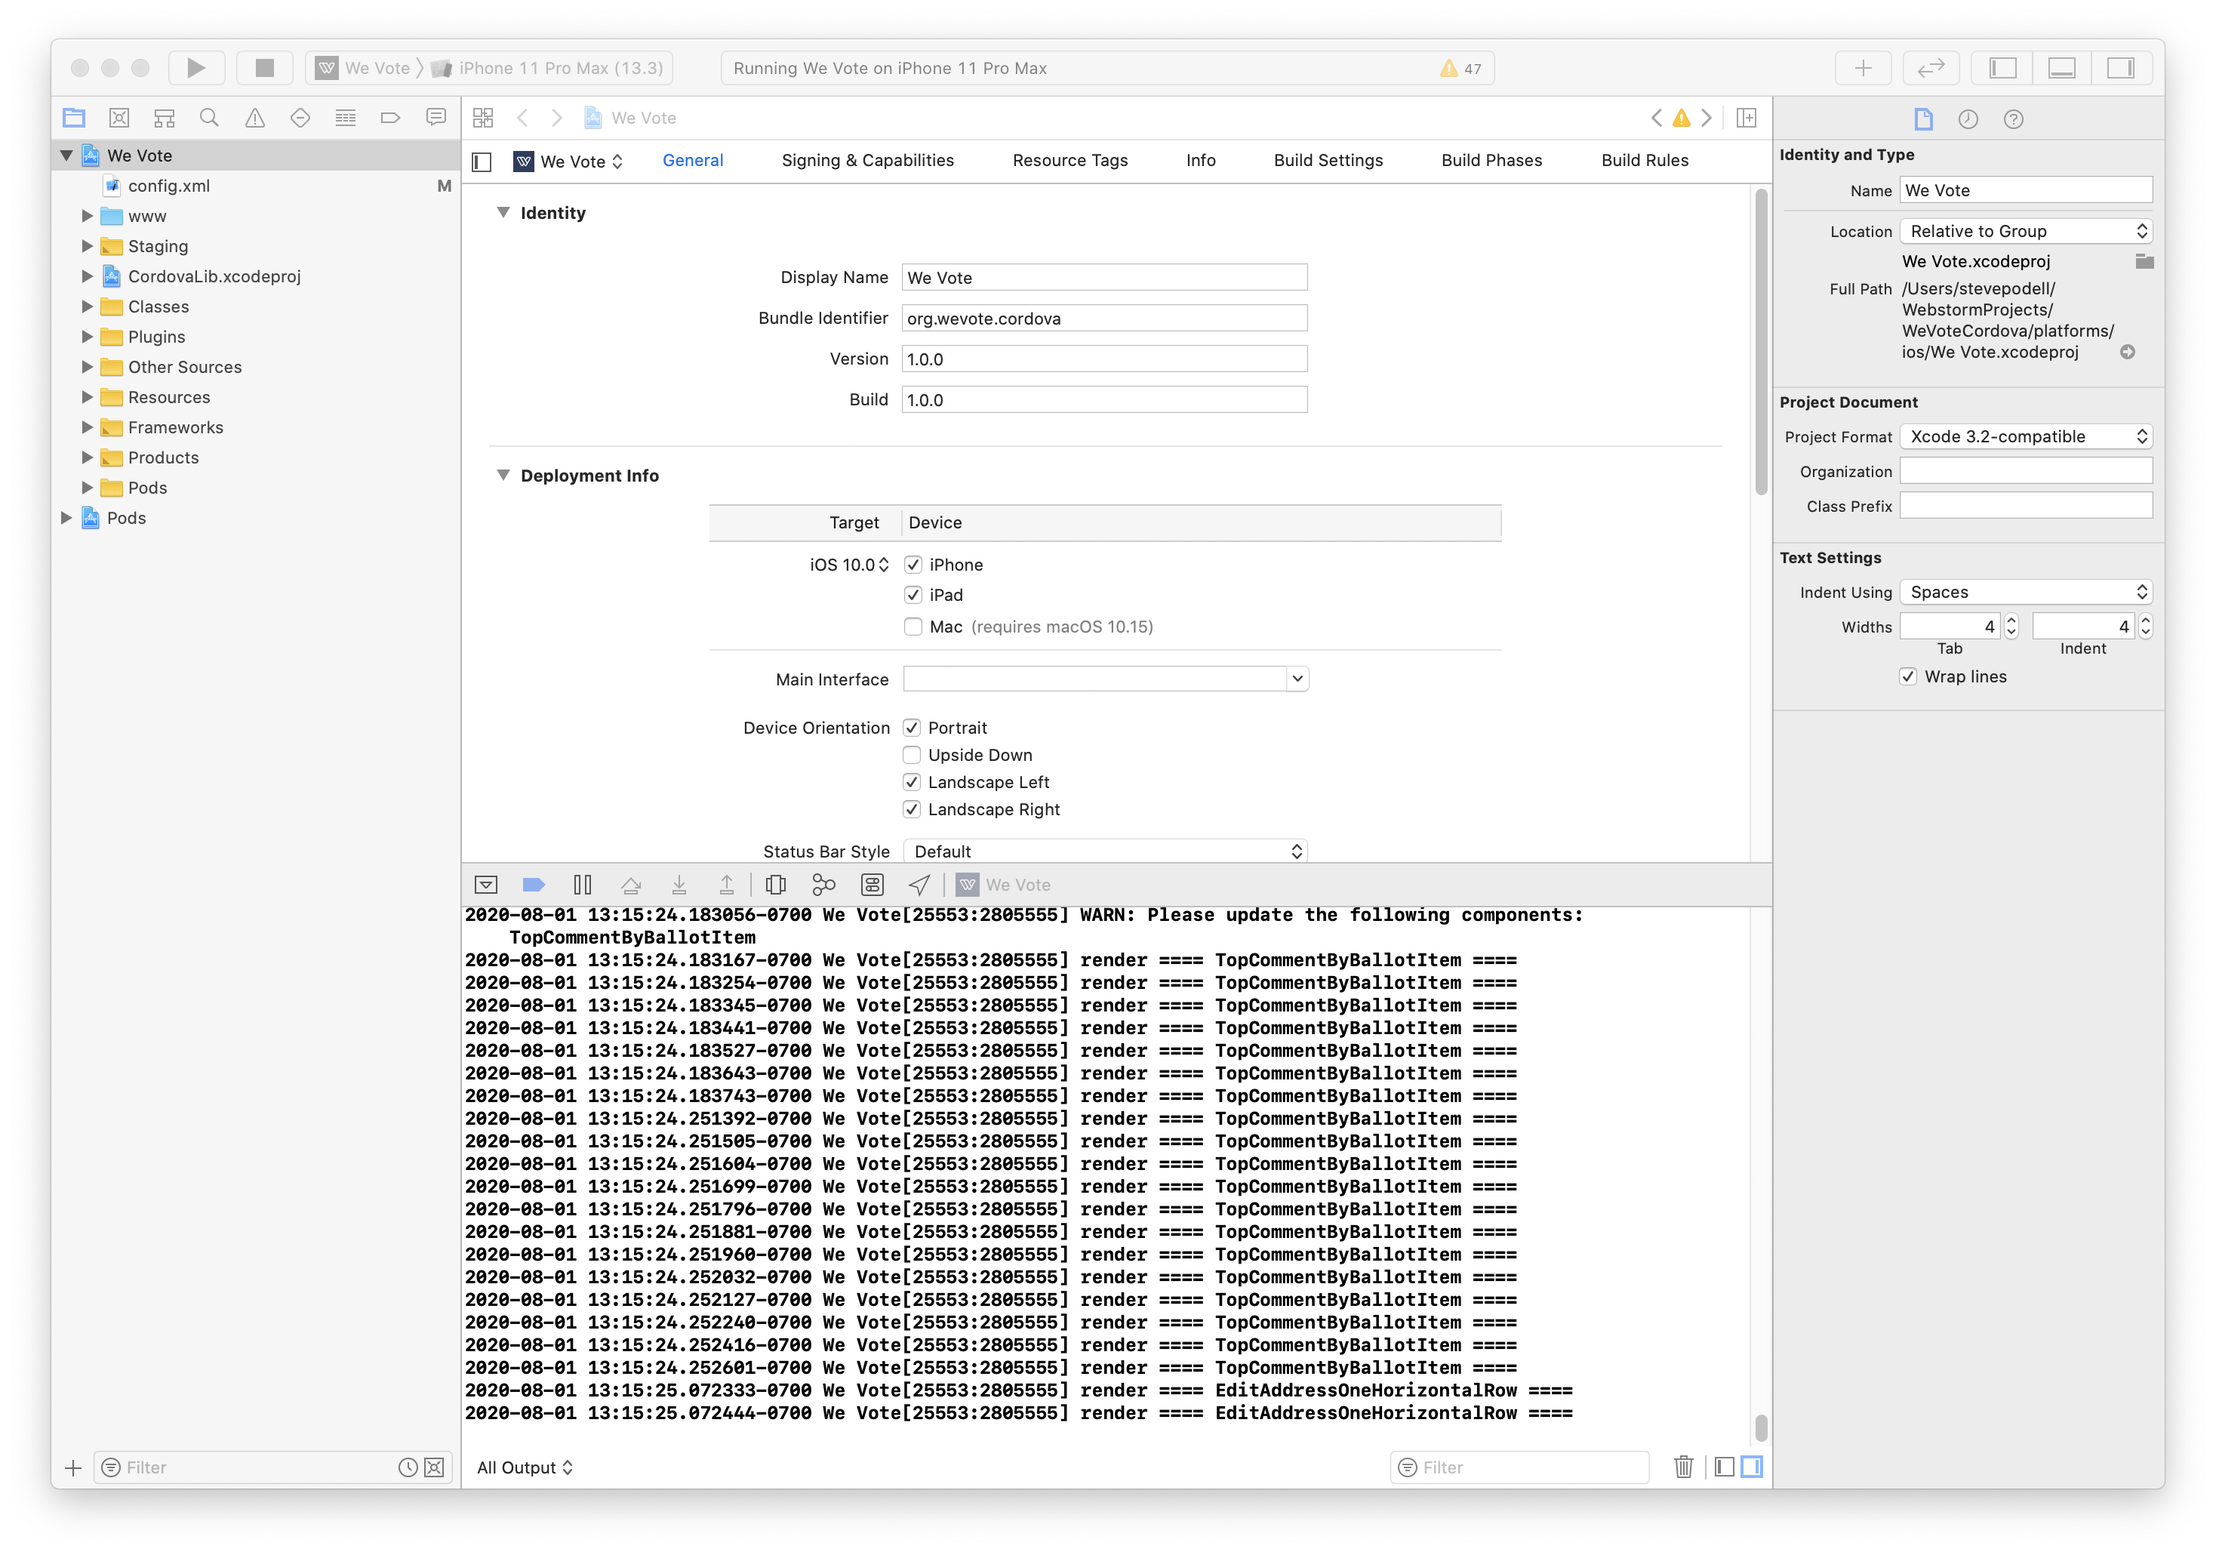
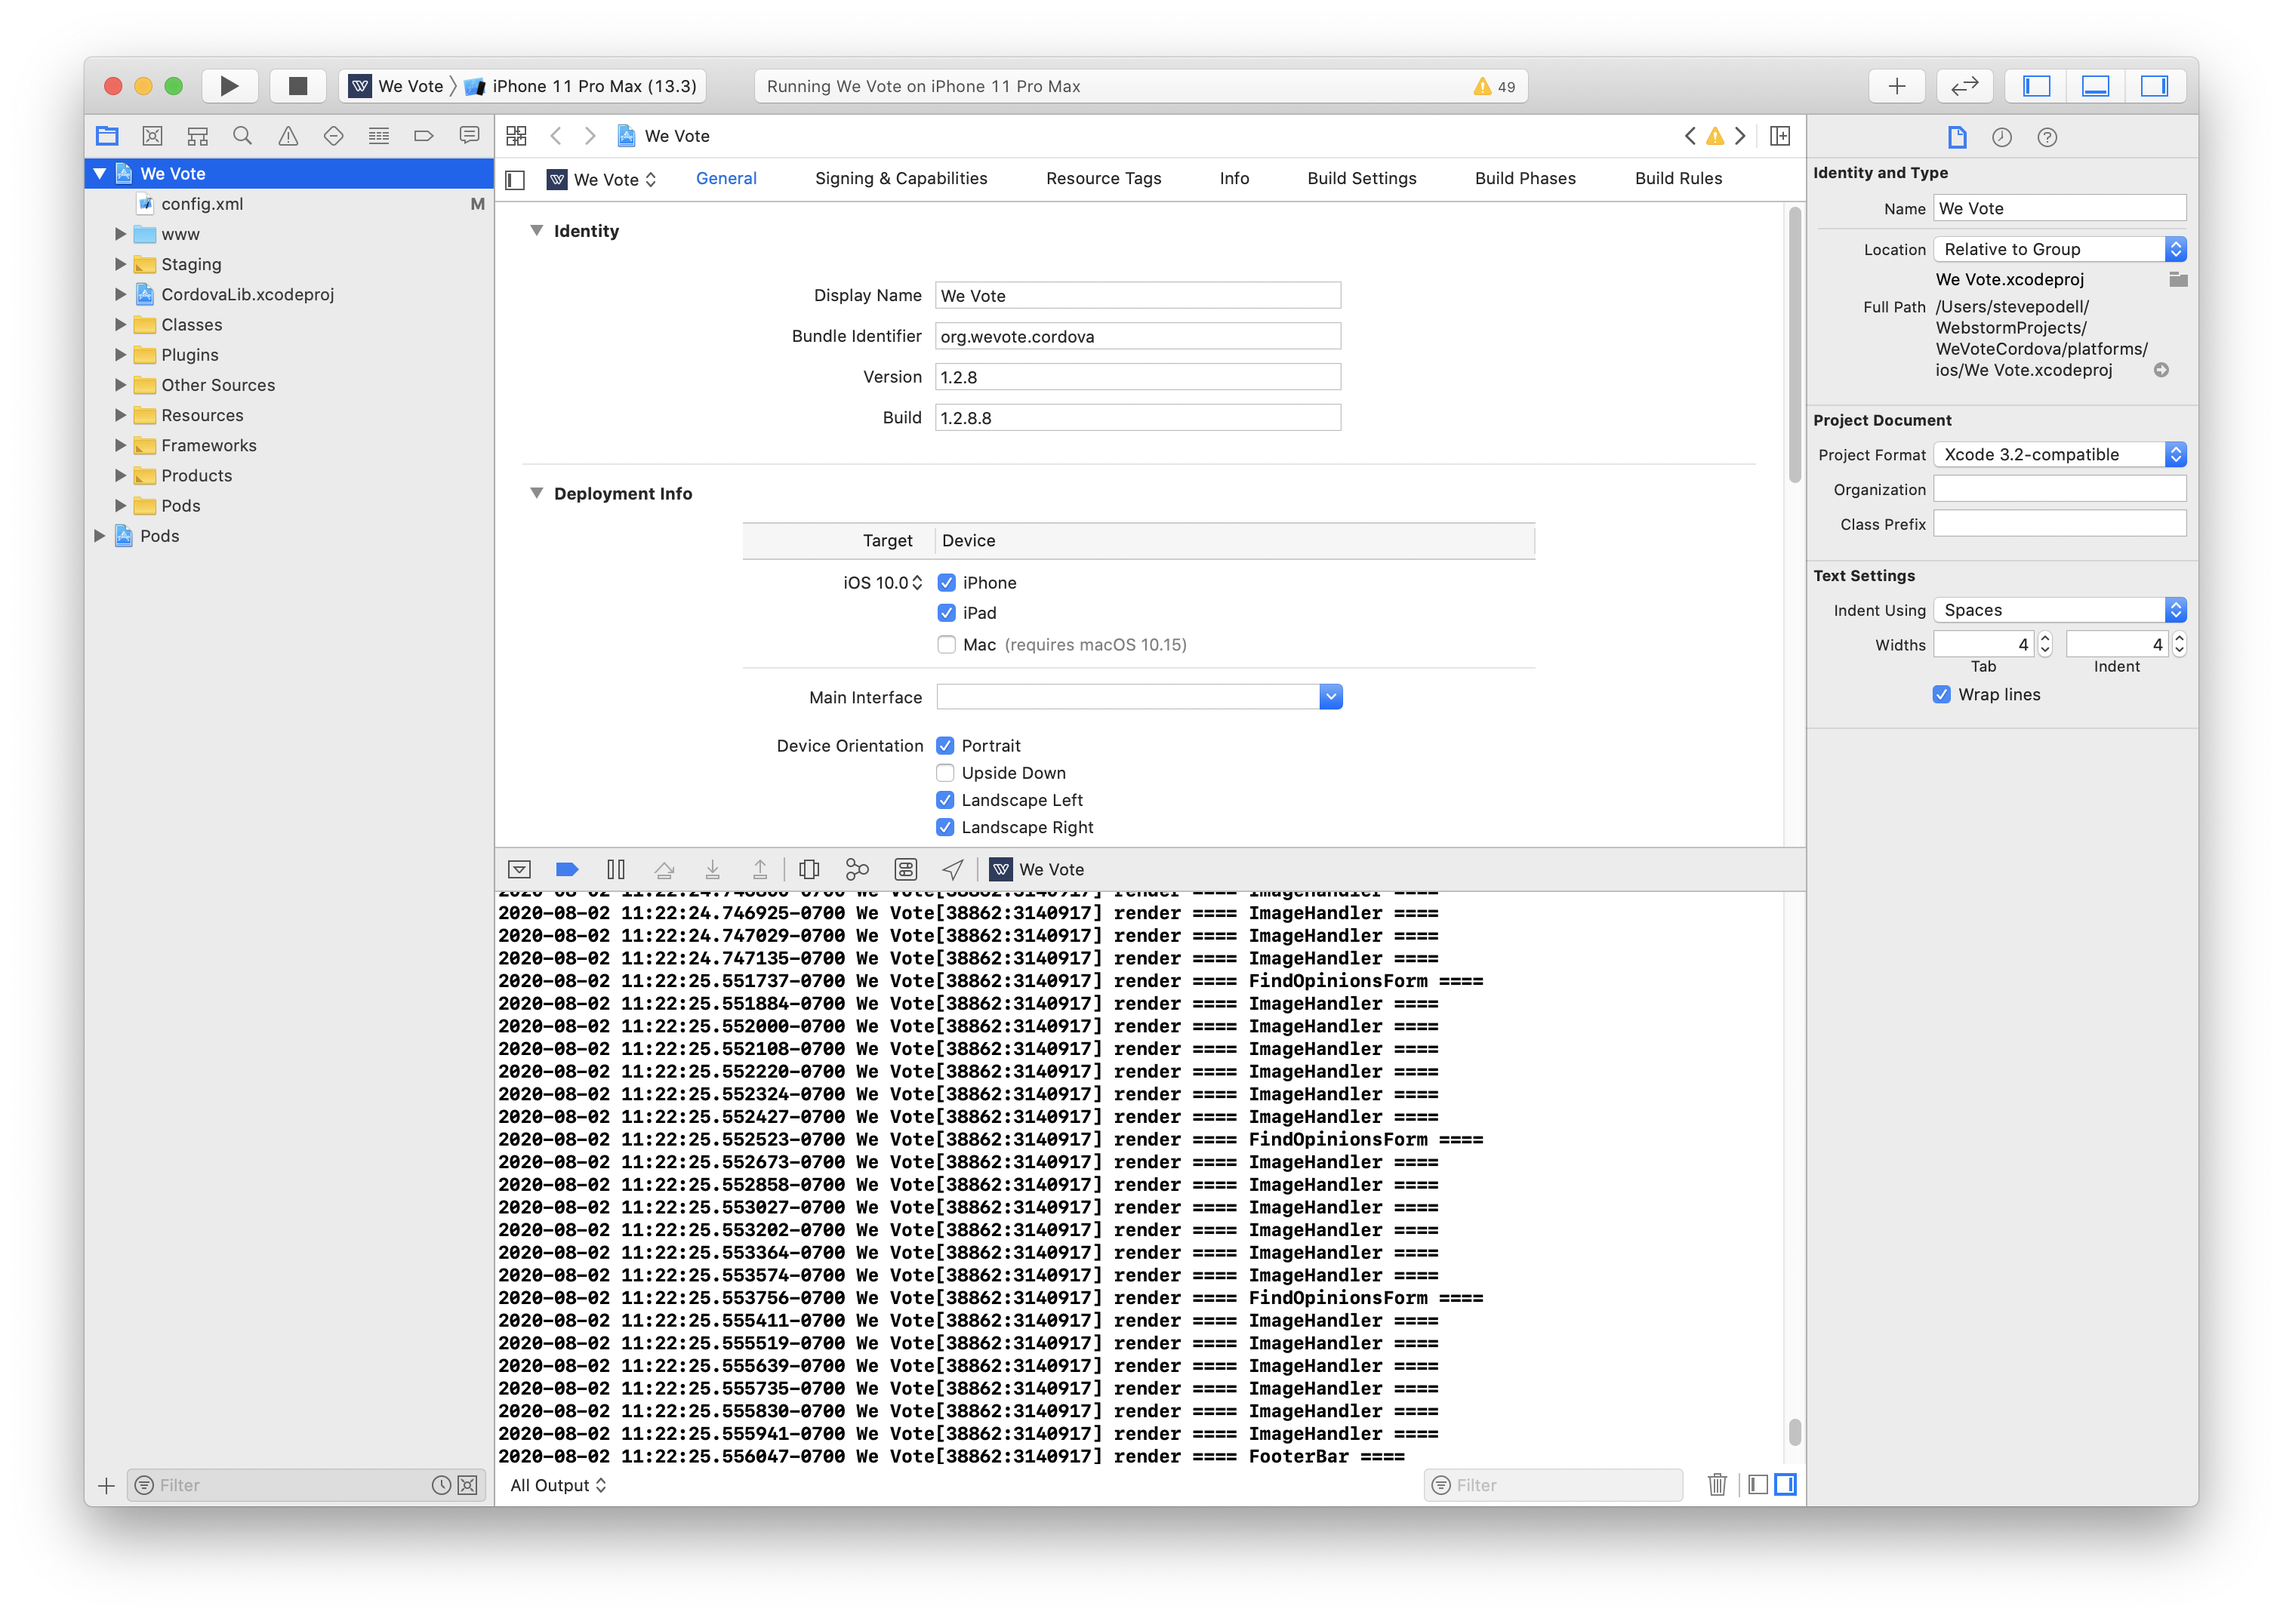
Version numbers for native builds, now come from config.xml

diff --git a/README.md b/README.md
@@ -73,8 +73,10 @@ script to add back in version I needed
 
 ## Directories
 
-These instructions have changed so often, as Cordova evolves, that we are going to use the actual directories on one specific computer in these instructions. You will have
-to change all file paths in these instructions to match your computer.  These are the example paths to the
+As Cordova evolves these instructions have had to change fairly ofen, so these instructions use the actual directories on one specific computer. You will have
+to change all file paths in these instructions to match the paths in your setup.  
+
+These are the example paths to the
 WebApp and to the WeVoteCordova, and to the WeVoteCordovaSaveoff (which we will use briefly to merge Cordova supplied code, with our Code from GIT).
 ```
     /Users/stevepodell/WebstormProjects/WebApp
@@ -102,7 +104,7 @@ WebApp and to the WeVoteCordova, and to the WeVoteCordovaSaveoff (which we will 
     stevepodell@Steves-MacBook-Pro-32GB-Oct-2109 WebstormProjects %
     ```
 
-1.  Install the Apache Cordova software, this is a command line interface (CLI) that is installed globally on your PC or Mac.
+1.  Install the Apache Cordova software.  This is the Cordova command line interface (CLI) that is installed globally on your PC or Mac.
 
     First do an uninstall, since since any earlier install of the Cordova CLI prior to Version 9, will no longer work.  If you have never installed
     cordova, the uninstall will not do anything (and that is not a problem!).
@@ -132,7 +134,7 @@ WebApp and to the WeVoteCordova, and to the WeVoteCordovaSaveoff (which we will 
     stevepodell@Steves-MacBook-Pro WeVoteCordova %
     ```
 
-    You can most likely ignore any warning that installing Cordova might have generated.
+    Most version warnings that installing Cordova might have generated, are unlikely to make any difference.
 
     Do not proceed until you are at Cordova V9, or higher.
     ```
@@ -143,8 +145,7 @@ WebApp and to the WeVoteCordova, and to the WeVoteCordovaSaveoff (which we will 
 
 1. Use `cordova create` to install a new "empty" instance of the WeVoteCordova (with some minimal scaffolding that our copyFromSaveoff script will remove in an upcoming step)
 
-    This will create a "Hello World" Cordova app, named WeVoteCordova -- the scaffolding, which we will throw away, is
-    is in two files `/www/index.html` and `/www/us/index.js`
+    This will create a "Hello World" Cordova app, named WeVoteCordova.
     ```
     stevepodell@Steves-MacBook-Pro-32GB-Oct-2109 WebstormProjects % cordova create  WeVoteCordova us.wevote.wevotecordova WeVoteCordova
     Creating a new cordova project.
@@ -167,7 +168,7 @@ WebApp and to the WeVoteCordova, and to the WeVoteCordovaSaveoff (which we will 
     stevepodell@Steves-MacBook-Pro-32GB-Oct-2109 WeVoteCordovaSaveoff %
     ```
 
-1. Run the `copyFromSaveoff` script to copy all the source controlled files from WeVoteCordovaSaveoff to WeVoteCordova 
+1. Run the `copyFromSaveoff` script to copy all the source controlled files from `WeVoteCordovaSaveoff` to `WeVoteCordova `
     ```
     stevepodell@Steves-MacBook-Pro-32GB-Oct-2109 WeVoteCordovaSaveoff % node copyFromSaveoff
     __dirname /Users/stevepodell/WebstormProjects/WeVoteCordovaSaveoff
@@ -312,7 +313,7 @@ WebApp and to the WeVoteCordova, and to the WeVoteCordovaSaveoff (which we will 
     stevepodell@Steves-MacBook-Pro-32GB-Oct-2109 WeVoteCordova %
     ```
    If you have installation troubles, you can run `buildSymLinks` as often as you need to,
-   it cleans out earlier links, before adding the new links in.
+   since the script cleans out conflicting links that might already in place, before adding in the new links.
    
 1. Check that cordova requirements have been met (No errors means success)
     ```
@@ -337,9 +338,9 @@ WebApp and to the WeVoteCordova, and to the WeVoteCordovaSaveoff (which we will 
     a minute or two later you should get the WeVoteCordova app running in a simulator. 
     ![ScreenShot](docs/images/XCodeOpenedAndReady.png)
 
-    At this point you have a fully working Cordova iOS build.
+    **At this point you have a fully working Cordova iOS build.**
 
-1. **ONLY IF NEEDED:** We hope this step is not necessary.   If the Cordova iOS app loads the html page (White "Loading We Vote" on blue, but crashes in JQuery regex), logs `SyntaxError: Invalid regular expression: range out of order in character class`,
+1. **ONLY IF NEEDED:** (We hope this step is not necessary.)   If the Cordova iOS app loads the html page (White "Loading We Vote" on blue, but crashes in JQuery regex), logs `SyntaxError: Invalid regular expression: range out of order in character class`,
  and never advances to the first React page in the WebApp:
 
     In the WebApp, delete
@@ -501,26 +502,6 @@ For Android, install the [Android Studio](https://developer.android.com/studio/i
 
     The easiest way to install Xcode is via the
     <a href="https://itunes.apple.com/us/app/xcode/id497799835?mt=12" target="_blank">Mac App Store.</a>  The Xcode.app download is approximately 10gb in size.
-
-1.  Install Node and Watchman
-
-    We recommend installing node and watchman via Homebrew.
-    ```
-    brew install node
-    brew install watchman
-    ```
-
-    On a machine where node may already have been installed, we want to have version 10 or heigher:
-    ```
-    Steves-MacBook-Pro-32GB-Oct-2018:WeVoteCordova stevepodell$ node -v
-    v11.14.0
-    Steves-MacBook-Pro-32GB-Oct-2018:WeVoteCordova stevepodell$
-    Steves-MacBook-Pro-32GB-Oct-2018:WeVoteCordova stevepodell$ brew upgrade node
-    Updating Homebrew...
-    Steves-MacBook-Pro-32GB-Oct-2018:WeVoteCordova stevepodell$ node -v
-    v12.12.0
-    Steves-MacBook-Pro-32GB-Oct-2018:WeVoteCordova stevepodell$
-    ```
 
 1.  Opening the project with Xcode -- Open xcworkspace, not xcodeproj directories (or else)
 
